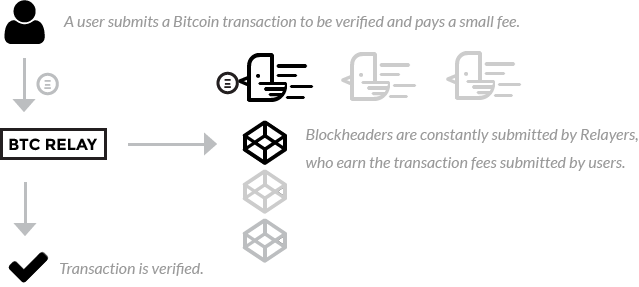
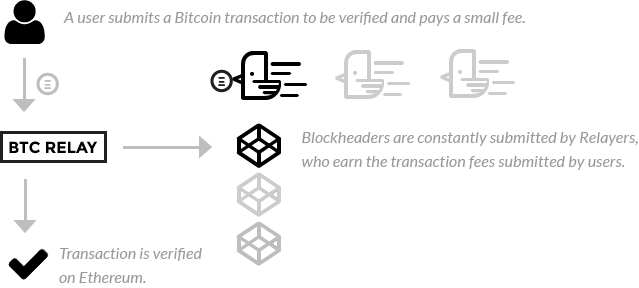
fixing iphone layout and adding btc<>eth link forgotten earlier

diff --git a/src/css/btcrelay.css b/src/css/btcrelay.css
@@ -59,9 +59,21 @@ body {
 	padding-right: 40px;
 }
 
-
 .max80 {
 	max-width: 80%;
+}
+
+.fa-rotate-135 { /* icon rotate */
+  -webkit-transform: rotate(135deg);
+  -moz-transform: rotate(135deg);
+  -ms-transform: rotate(135deg);
+  -o-transform: rotate(135deg);
+  transform: rotate(135deg);
+}
+
+.make-space {
+	margin-left: 10px;
+	margin-right: 10px;
 }
 
 /* Header
@@ -132,6 +144,12 @@ body {
 	color: #666;
 	margin-top: 40px;
 	max-width: 90%;
+}
+
+.hero-headline .link-center {
+	text-align: center;
+	max-width: 80%;
+	margin-top: 30px;
 }
 
 .hero-headline > .graphic-box {
@@ -211,7 +229,6 @@ only screen and (min-device-pixel-ratio: 1.5) {
 	.hero-headline > .graphic-box > .graphic .button {
 		padding-left: 10px;
 		padding-right: 10px;
-		font-size: 11px;
 	}
 	.hero-headline > .graphic-box > .graphic .button:nth-child(2) {
 		margin-left: 5%;
@@ -222,7 +239,28 @@ only screen and (min-device-pixel-ratio: 1.5) {
 	.hero-headline > .graphic-box {
 		max-width: 100%;
 	}
+	.hero-headline > .graphic-box > .graphic {
+		margin-left: -20px;
+	}
+	.hero-headline > .graphic-box > .graphic .button {
+		font-size: 11px;
+	}
+	.hero-headline .link-center {
+		max-width: 100%;
+	}
+	.header-social-set {
+		display: none;
+	}
 }
+
+@media only screen and (-Webkit-min-device-pixel-ratio: 1.5) and (max-width: 320px),
+	only screen and (-moz-min-device-pixel-ratio: 1.5),
+	only screen and (-o-min-device-pixel-ratio: 3/2),
+	only screen and (min-device-pixel-ratio: 1.5) {
+	  .hero-headline > .graphic-box > .graphic .button {
+	  	font-size: 9px;
+	  }
+	}
 
 .device-sm .hero-headline h1 { font-size: 48px; }
 
@@ -264,8 +302,8 @@ only screen and (min-device-pixel-ratio: 1.5) {
 -------------------- */
 #howitworks {
 	background-image: url(../images/howitworks.png);
-	background-size: 639px 284px;
-	height: 284px;
+	background-size: 639px 288px;
+	height: 288px;
 	width: 639px;
 	background-repeat: no-repeat;
 	margin-left: 20px;
@@ -276,7 +314,7 @@ only screen and (-o-min-device-pixel-ratio: 3/2),
 only screen and (min-device-pixel-ratio: 1.5) {
   #howitworks {
     background-image: url(../images/howitworks@2x.png);
-    background-size: 639px 284px;
+    background-size: 639px 288px;
     background-repeat: no-repeat;
   }
 }

diff --git a/src/index.html b/src/index.html
@@ -75,6 +75,7 @@
 
 					<div class="hero-headline bottommargin">
 						<h1 class="headline-reponsive">A bridge between the Bitcoin blockchain and Ethereum smart contracts</h1>
+            <h3 class="link-center">BTC  <i class="icon-link fa-rotate-135 make-space"></i>  ETH</h3>
 						<span>BTC Relay allows Ethereum developers to interact with the Bitcoin blockchain and verify Bitcoin transactions. Relayers who submit blocks to support the Relay can earn Ether.</span>
 
 						<div class="graphic-box">
